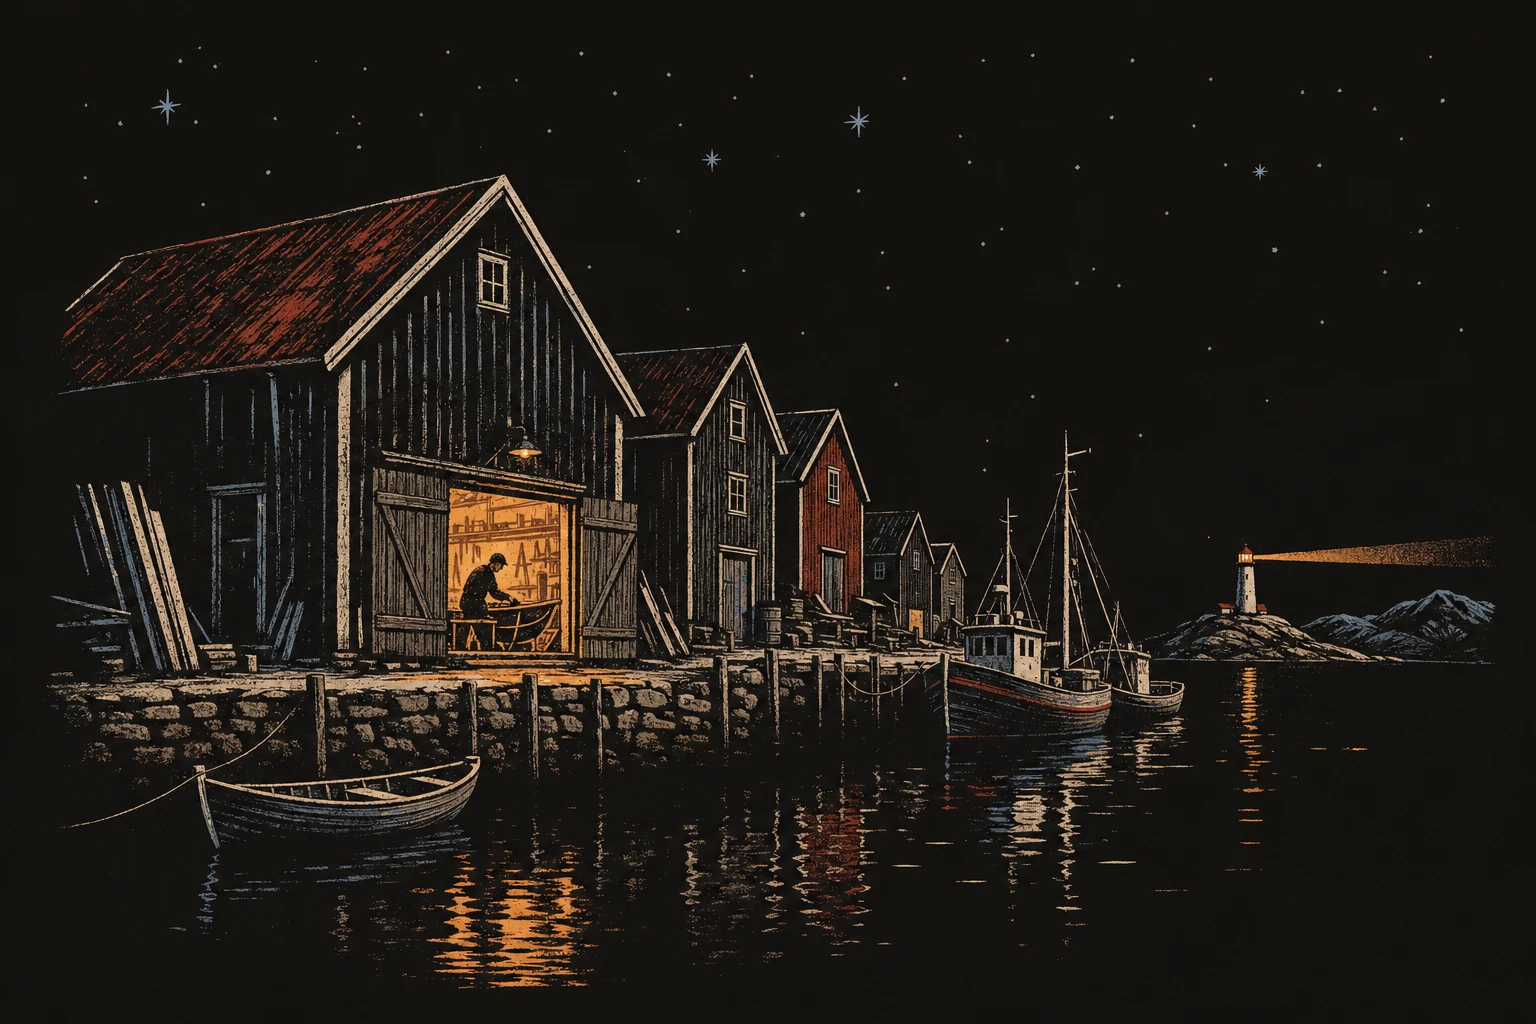
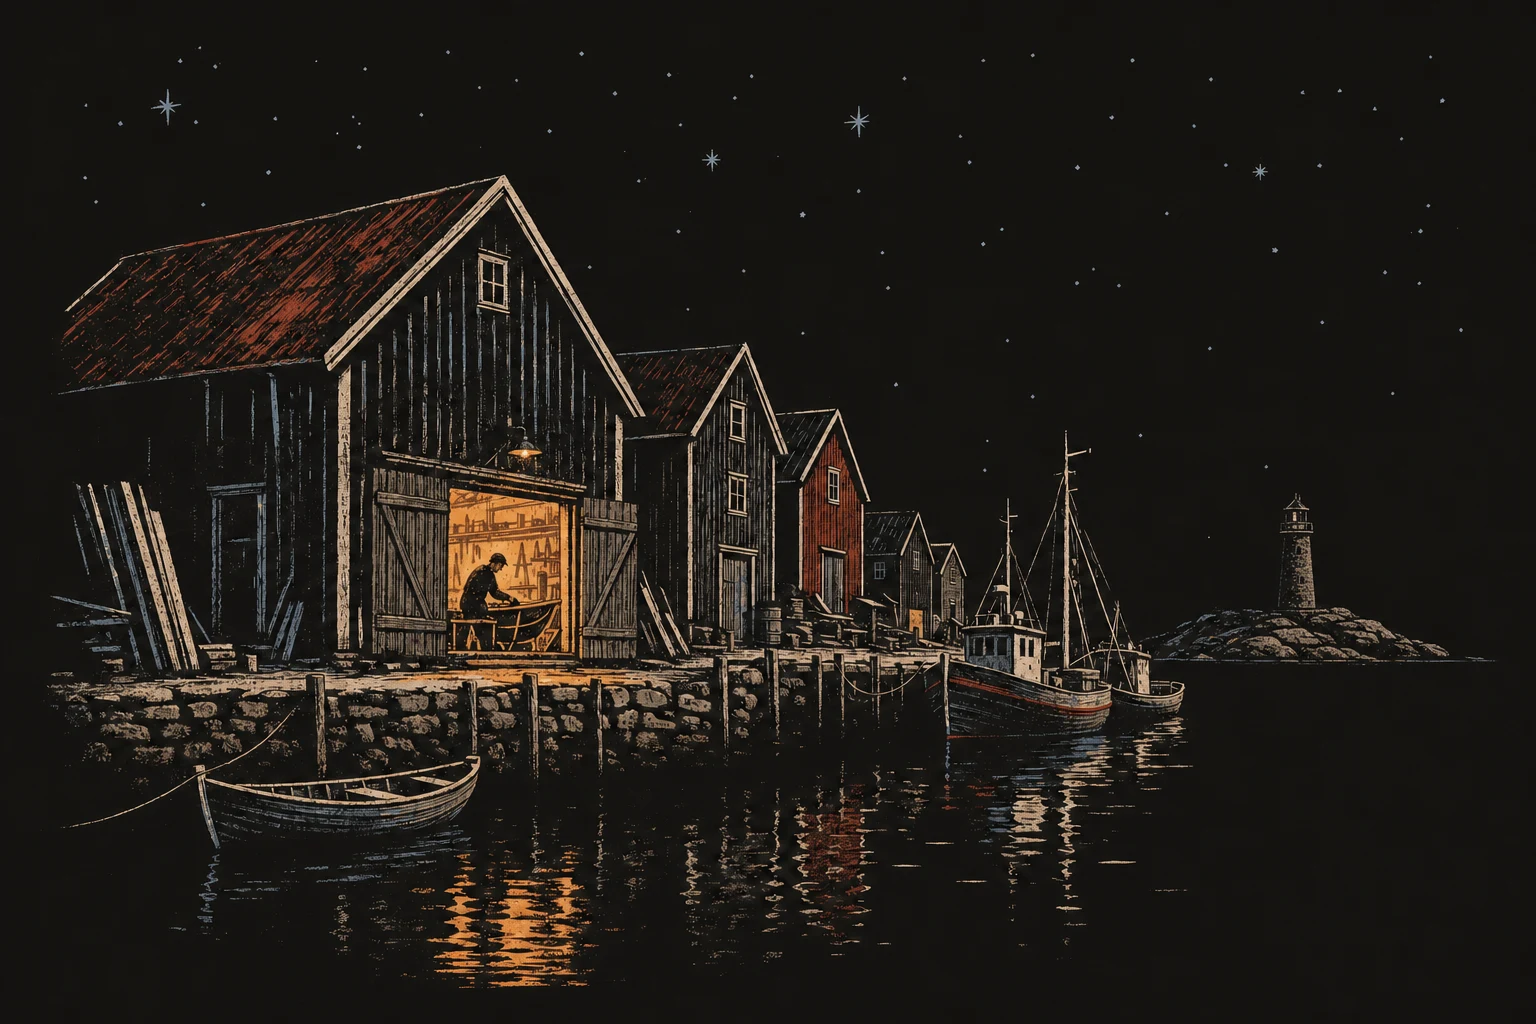
Folkene: fjernet malt fyrlys fra bildet (gpt-image-2 edit), boostet glød
Det malte lyset i fyret konkurrerte med den animerte strålen — fjernet
via maskert bilderedigering (kun fyrtårn-sonen endret, resten piksel-
identisk). Strålen er nå eneste lys fra tårnet (alpha 0.16→0.22), og
vindusgløden i verkstedsdøra er kraftig nok til å synes (0.3→0.5, mer
synlig pust 0.55–1.0 / 0.9–1.12).

diff --git a/src/styles/verksted/folkene.css b/src/styles/verksted/folkene.css
@@ -69,11 +69,14 @@
   z-index: 1; /* above the artwork, below caption (13) and grain (12) */
   mix-blend-mode: screen;
   /* Wedge points «up» at rotate: 0; ~2.6° flat core, soft 3.2° edges. */
+  /* The painted lighthouse light was edited out of the artwork — this
+     animated beam is now the ONLY light from the tower, so it can carry
+     more presence. */
   background: conic-gradient(
     from -4.5deg,
     transparent 0deg,
-    rgba(255, 214, 140, 0.16) 3.2deg,
-    rgba(255, 214, 140, 0.16) 5.8deg,
+    rgba(255, 214, 140, 0.22) 3.2deg,
+    rgba(255, 214, 140, 0.22) 5.8deg,
     transparent 9deg
   );
   /* closest-side = 75vw: the beam dissolves before it reaches it. */
@@ -163,14 +166,16 @@
   aspect-ratio: 1;
   translate: -50% -50%;
   border-radius: 50%;
-  opacity: 0.92; /* static mid-state between the breathe extremes */
+  opacity: 0.8; /* static mid-state between the breathe extremes */
   pointer-events: none;
   z-index: 1;
   mix-blend-mode: screen;
+  /* Strong enough to read over the painted doorway — the breathe delta
+     below is what makes the life inside visible. */
   background: radial-gradient(
     circle closest-side,
-    rgba(255, 180, 84, 0.3),
-    rgba(255, 170, 70, 0.14) 48%,
+    rgba(255, 180, 84, 0.5),
+    rgba(255, 170, 70, 0.24) 48%,
     transparent 100%
   );
 }
@@ -188,13 +193,13 @@
 
 @keyframes vk-folk-vindu-breathe {
   from {
-    opacity: 0.84;
-    scale: 0.93;
+    opacity: 0.55;
+    scale: 0.9;
   }
 
   to {
     opacity: 1;
-    scale: 1.07;
+    scale: 1.12;
   }
 }
 